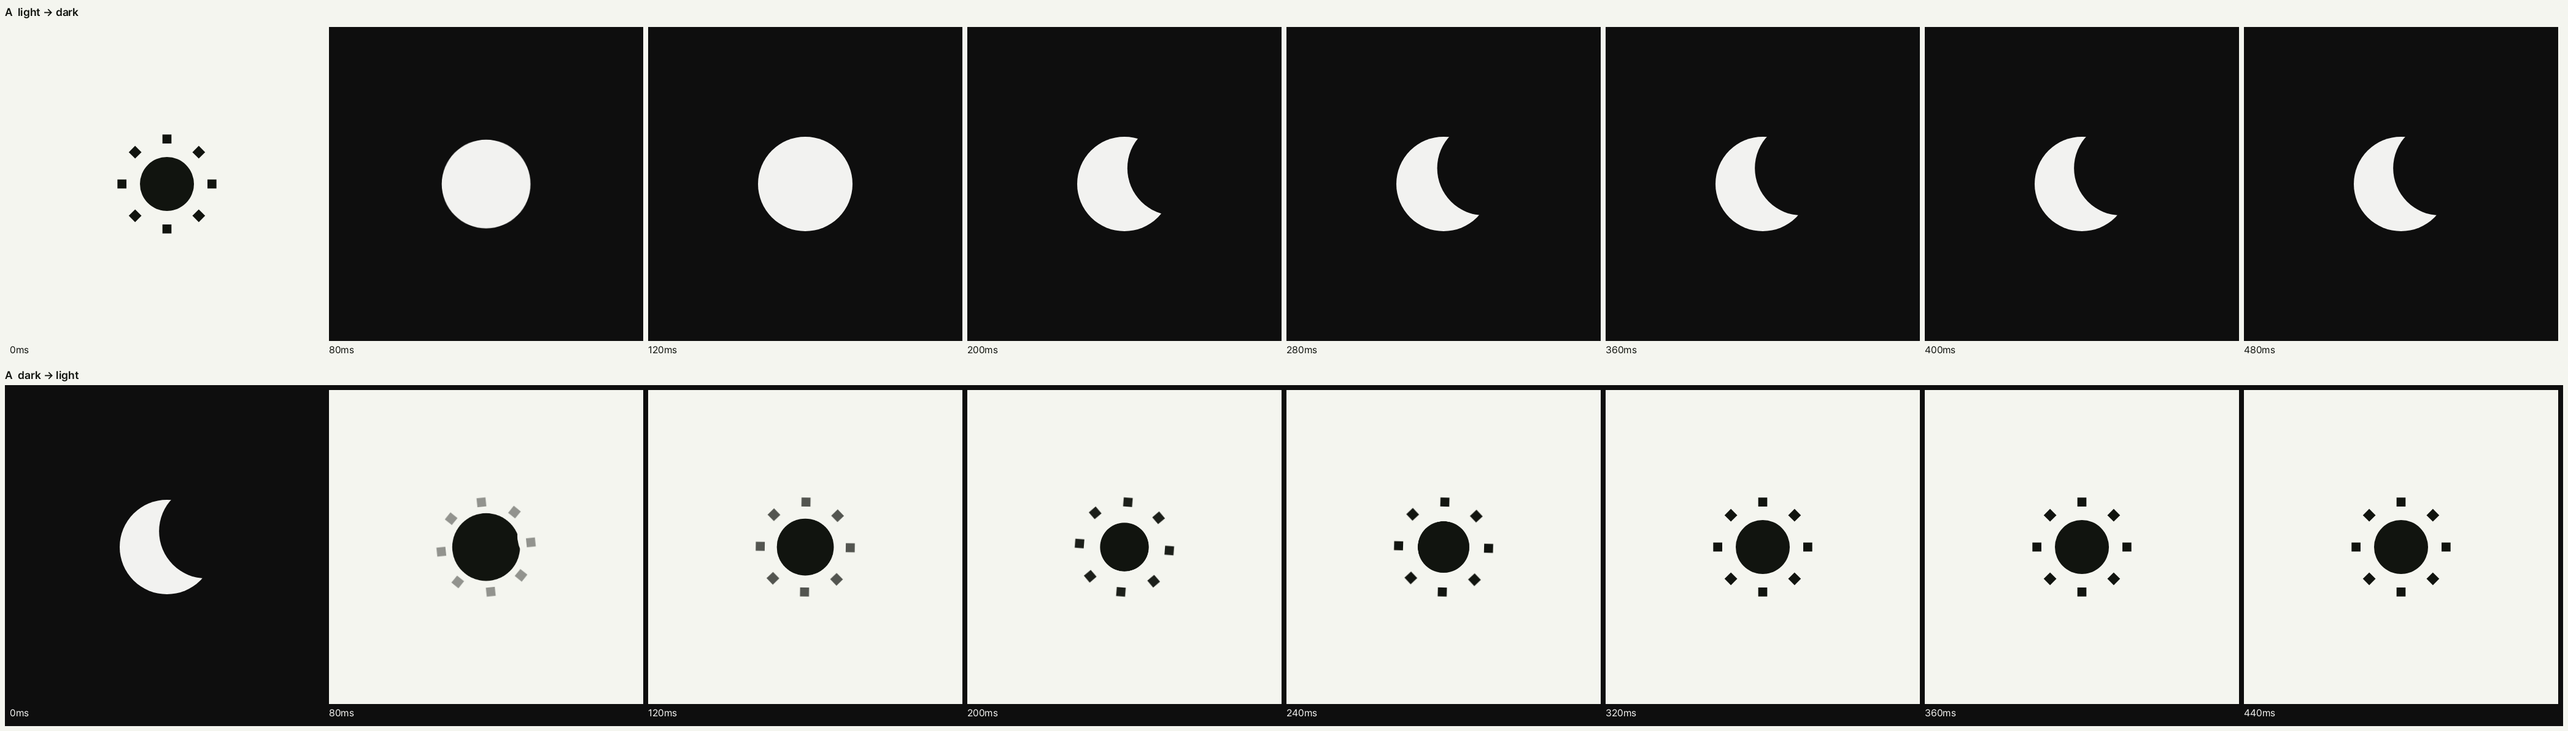
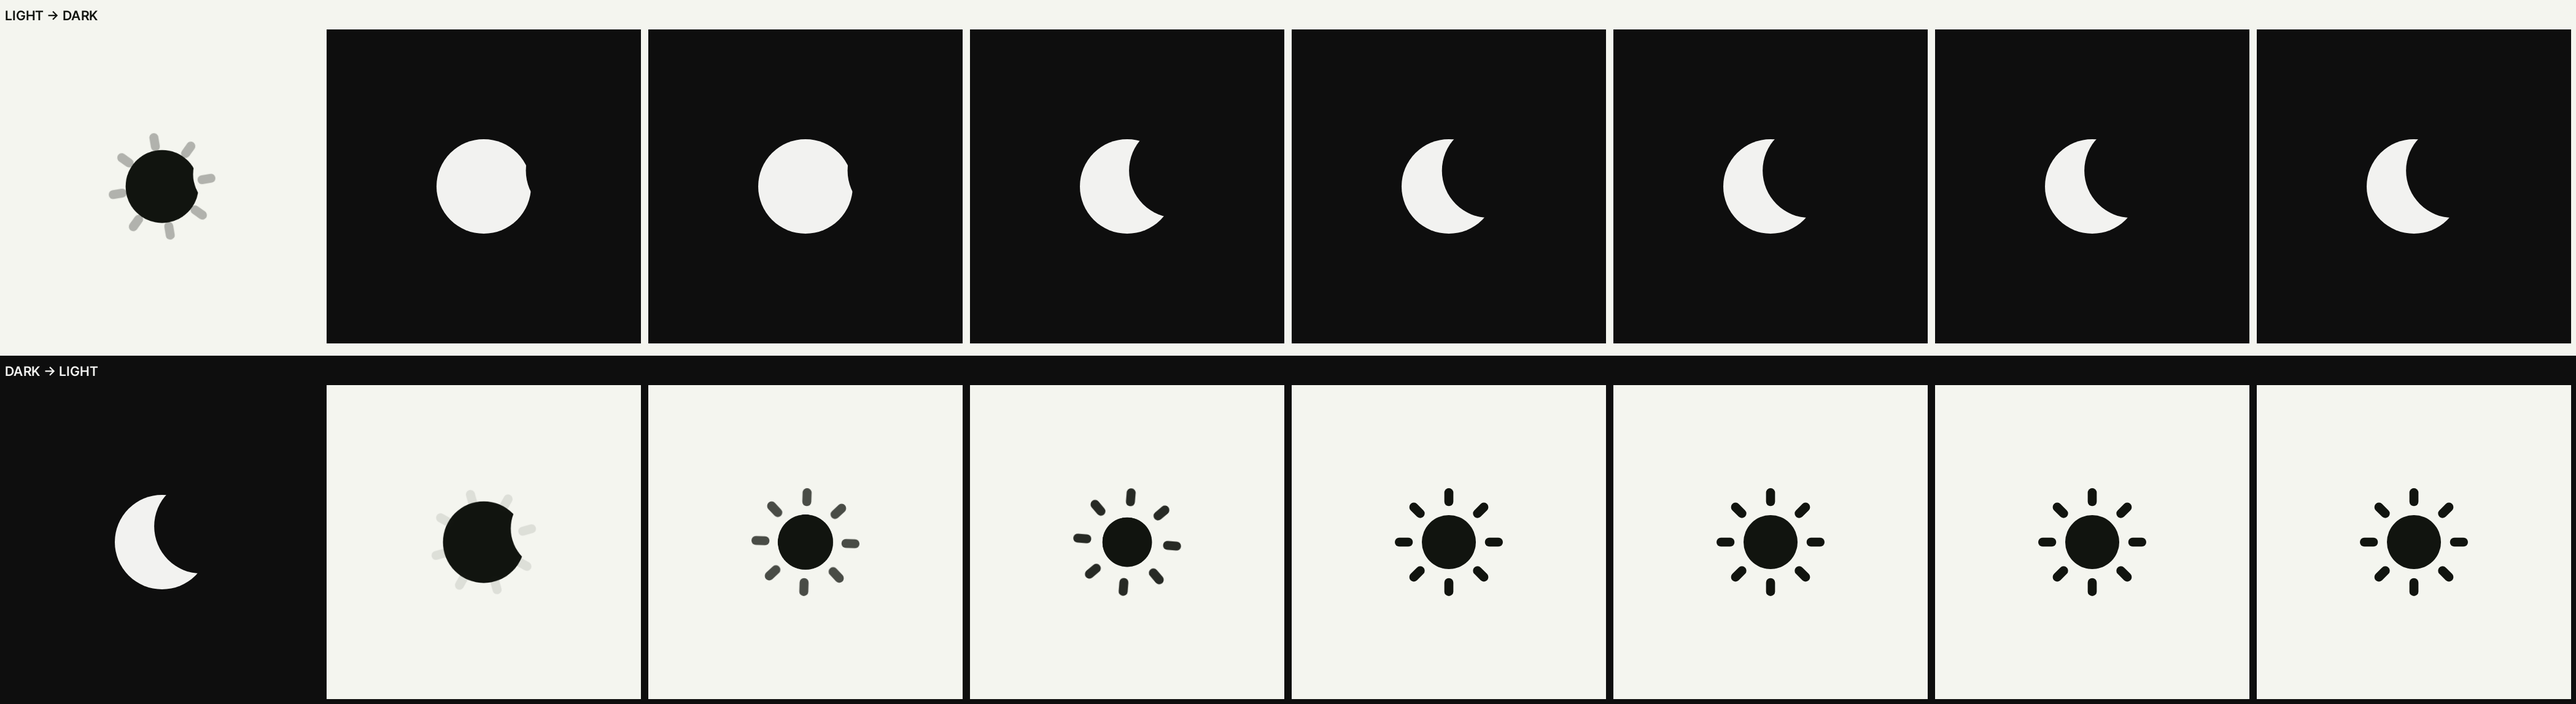
fix: round sun-ray caps and refresh unsubscribed theme cache

diff --git a/packages/ui/src/theme.ts b/packages/ui/src/theme.ts
@@ -163,10 +163,13 @@ function ensureEnvironmentWatch() {
   watching = true;
   const media = window.matchMedia("(prefers-color-scheme: dark)");
   window.addEventListener("storage", (event) => {
-    for (const storageKey of listeners.keys()) {
+    for (const storageKey of effectivePreferences.keys()) {
       if (event.key !== null && event.key !== storageKey) continue;
-      applyThemeDom(refreshThemePreference(storageKey));
-      emit(storageKey);
+      const preference = refreshThemePreference(storageKey);
+      if (listeners.has(storageKey)) {
+        applyThemeDom(preference);
+        emit(storageKey);
+      }
     }
   });
   media.addEventListener("change", () => {

diff --git a/packages/ui/src/styles.css b/packages/ui/src/styles.css
@@ -498,6 +498,8 @@ input.kiwi-field__input[type="time"]::-webkit-date-and-time-value {
   width: 22px;
   height: 22px;
   overflow: visible;
+  /* Official .theme-toggle > svg { stroke-linecap: round } keeps rays rounded. */
+  stroke-linecap: round;
 }
 .kiwi-theme__glyph > :is(.moon, .sun, .sun-beams) {
   transform-origin: center center;

diff --git a/docs/guidelines.md b/docs/guidelines.md
@@ -76,7 +76,7 @@ The website's primary-action matrix illustrates that family only. CSS and actual
 - SegmentedControl은 native radio group이다. Tab·방향키·폼 제출/초기화는 브라우저가 맡으며 tablist나 navigation으로 사용하지 않는다. 긴 선택지는 잘리거나 가로로 넘치지 않고 줄바꿈한다.
 - ThemeControl의 기본 `variant="icon"`은 제품 헤더용 44×44 ghost button과 22px 해·달이다. 실제 resolved theme가 light면 해와 `어둡게 전환`, dark면 달과 `밝게 전환` aria-label/title을 쓴다. `aria-pressed`는 없다. 색은 `--kiwi-color-text`, hover/active fill은 control-hover/control-active, focus는 2px focus token과 0.2rem offset이다. 클릭은 보이는 테마의 반대 `light`/`dark`를 저장하고 고정한다. 저장값이 없으면 기기 설정에 따라 아이콘과 theme-color가 실시간 갱신된다.
 - `variant="segmented"`의 자동·밝게·어둡게 radio track은 설정·카탈로그 전용이며 제품 헤더에는 사용하지 않는다. `label`/`hideLabel`은 segmented에서 유지한다. `light`/`dark`만 루트 attribute와 앱 localStorage 키에 남기며, `auto`는 둘을 제거한다. `commitThemePreference(key, "auto")`로 초기화할 수 있고 icon에는 초기화 UI가 없다. `data-theme="auto"`/`"system"`을 쓰지 않는다. Bootstrap은 CSS 전에 실행한다.
-- ThemeControl은 GUI Challenges / Adam Argyle theme-switch의 원본 24×24 SVG와 선택된 motion A를 사용한다. 출처·라이선스와 timing은 [UI README](../packages/ui/README.md#screen-theme)에 있다. 초기 resolved theme를 적용하고 paint한 뒤에만 morph를 활성화하여 첫 paint·hydration은 즉시 표시한다. Reduced motion도 즉시 표시하고 shared motion token은 바꾸지 않는다. 저장소 접근 실패에도 메모리의 유효 preference를 유지하여 클릭·초기화·label을 동기화한다. 읽을 수 있는 storage event는 preference를 갱신하고, system 변경은 유효 preference가 auto일 때만 따른다.
+- ThemeControl은 GUI Challenges / Adam Argyle theme-switch의 원본 24×24 SVG와 선택된 motion A를 사용한다. 광선은 2-unit 선과 2px stroke에 round cap을 적용하며 light rest에서 축소하지 않는다. 전체 SVG만 22px로 표시한다. 출처·라이선스와 timing은 [UI README](../packages/ui/README.md#screen-theme)에 있다. 초기 resolved theme를 적용하고 paint한 뒤에만 morph를 활성화하여 첫 paint·hydration은 즉시 표시한다. Reduced motion도 즉시 표시하고 shared motion token은 바꾸지 않는다. 저장소 접근 실패에도 메모리의 유효 preference를 유지하여 클릭·초기화·label을 동기화한다. 읽을 수 있는 storage event(키 전체 삭제 포함)는 마지막 구독 해제 후에도 캐시의 preference를 갱신하되, DOM 적용·알림은 구독 중인 키에만 수행한다. system 변경은 유효 preference가 auto일 때만 따른다.
 - EmptyState는 설명과 다음 행동을 담고 자동으로 loading·error·live region 의미를 부여하지 않는다. 실제 데이터 없음과 미수집은 제품이 구분한다.
 - TextField와 Select는 id 생략 시 고유 id를 생성하고 hint/error와 외부 aria-describedby를 연결한다.
 - Button은 기본 type=button이며 form 제출은 명시적으로 type=submit을 선택한다.

diff --git a/packages/ui/README.md b/packages/ui/README.md
@@ -150,7 +150,8 @@ Native `disabled` works for either variant.
 The glyph and picked motion A port the official GUI Challenges / Adam Argyle
 [theme-switch](https://github.com/argyleink/gui-challenges/tree/82317d0d04c4f38ddf781439e282aa67ecb5b7f6/theme-switch),
 commit `82317d0d04c4f38ddf781439e282aa67ecb5b7f6`: original 24×24 sun, eight thin
-rays and crescent mask, displayed at 22px. The original motion uses 250ms sun /
+round-capped rays (2-unit lines, 2px stroke) and crescent mask, displayed at 22px.
+Light rays keep their original scale; only the whole SVG is sized to 22px. The original motion uses 250ms sun /
 150ms rays / 500ms mask after 250ms delay to dark; to light, 500ms elastic sun
 and rays with a 250ms mask. Easing values are inlined without Open Props.
 Transitions start only after initial sync has painted; first paint and hydration
@@ -211,7 +212,9 @@ binding synchronizes it with the page theme. Call
 `commitThemePreference(storageKey, "auto")` to clear the key and return to the
 system preference without an icon reset UI. Storage failures (including unavailable
 localStorage) retain the effective choice for toggling and labels. Readable
-cross-tab storage events refresh it; media changes follow only an effective `auto`.
+cross-tab storage events refresh cached keys even after the last control unmounts,
+including storage clear events. Only subscribed keys apply DOM changes or notify
+controls. Media changes follow only an effective `auto`.
 
 ## Themes and server rendering
 
